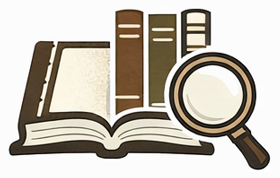
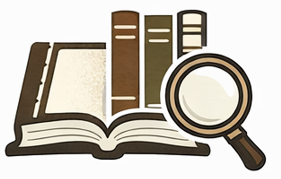
feat: 메인페이지 2차

Changed region(s): [[0.0, 0.0281, 0.9714, 0.9551], [0.3143, 0.8427, 0.3714, 0.8989]]

diff --git a/frontend/src/views/HomeView.vue b/frontend/src/views/HomeView.vue
@@ -9,7 +9,7 @@
         <div class="search-bar">
           <input type="text" placeholder="찾으시는 서책의 이름을 입력하십시오..." class="search-input">
           <button class="search-button">
-            <img src="@/assets/search-icon.png" alt="검색" class="search-icon-img" />
+            <img src="@/assets/search-button.jpg" alt="검색" class="search-button-img" />
           </button>
         </div>
       </div>
@@ -22,9 +22,89 @@
         <span class="decoration-line"></span>
       </div>
       <p class="section-desc">사용자의 취향에 맞춰 선별한 서적들입니다.</p>
-      </section>
+
+      <div v-if="isLoggedIn" class="recommend-content">
+        <div v-if="recommendations.length > 0" class="book-grid">
+          <div v-for="rec in recommendations" :key="rec.id" class="book-card">
+            <div class="book-cover-wrapper">
+              <img :src="rec.book.cover_url" alt="서책 표지" class="book-cover">
+            </div>
+            <div class="book-info">
+              <h4 class="book-title">{{ rec.book.title }}</h4>
+              <p class="book-author">{{ rec.book.author }}</p>
+              <p class="ai-reason">" {{ rec.reason }} "</p>
+            </div>
+          </div>
+        </div>
+        <div v-else class="loading-state">추천 서책을 선별 중입니다...</div>
+      </div>
+
+      <div v-else class="login-prompt-card">
+        <p class="prompt-text">로그인하시면 AI가 분석한 <br> 당신만을 위한 추천 서책을 만나보실 수 있습니다.</p>
+        <div class="prompt-btns">
+          <router-link to="/login" class="btn-login">로그인</router-link>
+          <router-link to="/signup" class="btn-signup">회원가입</router-link>
+        </div>
+      </div>
+    </section>
   </div>
 </template>
+
+<script setup>
+import { ref, onMounted, onUnmounted, watch } from 'vue'
+import { useRoute } from 'vue-router'
+import axios from 'axios'
+
+const route = useRoute()
+const recommendations = ref([])
+const isLoggedIn = ref(false)
+
+const checkStatusAndFetch = () => {
+  const token = localStorage.getItem('access_token')
+  isLoggedIn.value = !!token
+  
+  if (isLoggedIn.value) {
+    getRecommendations(token)
+  } else {
+    recommendations.value = [] 
+  }
+}
+
+const getRecommendations = function (token) {
+  axios({
+    method: 'get',
+    url: 'http://127.0.0.1:8000/api/v1/books/recommendations/',
+    headers: { Authorization: `Bearer ${token}` }
+  })
+    .then(res => { recommendations.value = res.data })
+    .catch(err => { 
+      if (err.response?.status === 401) {
+        isLoggedIn.value = false
+        recommendations.value = []
+      }
+    })
+}
+
+const handleAuthChange = () => {
+  checkStatusAndFetch()
+}
+
+onMounted(() => {
+  checkStatusAndFetch()
+  
+  window.addEventListener('auth-change', handleAuthChange)
+  window.addEventListener('storage', handleAuthChange)
+})
+
+onUnmounted(() => {
+  window.removeEventListener('auth-change', handleAuthChange)
+  window.removeEventListener('storage', handleAuthChange)
+})
+
+watch(() => route.path, () => {
+  checkStatusAndFetch()
+})
+</script>
 
 <style scoped>
 /* 구글에서 폰트 불러오기 */
@@ -43,7 +123,7 @@
   background-color: #4a3423; 
   background-image: url('https://www.toptal.com/designers/subtlepatterns/uploads/paper.png'); 
   background-blend-mode: overlay;
-  height: 450px;
+  height: 350px;
   display: flex;
   align-items: center;
   justify-content: center;
@@ -80,7 +160,8 @@
   background-color: rgba(255, 255, 255, 0.95);
   border: 2px solid #81532e;
   border-radius: 4px;
-  width: 500px;
+  width: 650px;       
+  height: 60px;     
   margin: 0 auto;
   overflow: hidden;
   box-shadow: 5px 5px 15px rgba(0,0,0,0.2);
@@ -97,7 +178,7 @@
 }
 
 .search-button {
-  background-color: #81532e;
+  background-color: #ffffff;
   border: none;
   padding: 0 25px;
   cursor: pointer;
@@ -107,17 +188,18 @@
 }
 
 .search-button:hover {
-  background-color: #5d3b21;
+  background-color: #ffffff;
 }
 
-.search-icon-img {
-  width: 20px;
-  filter: brightness(0) invert(1);
+.search-button-img {
+  width: 24px;
+  height: 24px;
+  object-fit: fill;
 }
 
 .recommend-section {
   max-width: 1200px;
-  margin: 60px auto;
+  margin: 10px auto;
   padding: 0 20px;
   text-align: center;
 }
@@ -127,7 +209,7 @@
   align-items: center;
   justify-content: center;
   gap: 20px;
-  margin-bottom: 10px;
+  margin-bottom: 4px;
 }
 
 .decoration-line {
@@ -137,20 +219,165 @@
 }
 
 .section-title {
-  font-size: 28px;
+  font-size: 34px;
   color: #4a3423;
   font-weight: 700;
 }
 
 .section-desc {
-  color: #888;
-  font-size: 16px;
+  color: #967979;
+  font-size: 26px;
+  margin-top: 0;
+  margin-bottom: 30px;
 }
 
 .search-input::placeholder {
   font-family: 'Nanum Myeongjo', serif;
-  letter-spacing: -0.5px; /* 글자를 살짝 모아서 정갈하게 */
-  font-size: 15px;
+  letter-spacing: -0.5px;
+  font-size: 18px;
   font-weight: 700;
 }
+
+.recommend-content {
+  margin-top: 40px;
+}
+
+.book-grid {
+  display: flex;            /* Grid 대신 Flex 사용 */
+  gap: 30px;
+  max-width: 1100px;        /* 전체 섹션 너비에 맞춰 조절 */
+  margin: 0 auto;
+  padding: 20px 10px;       /* 그림자가 잘리지 않게 여백 추가 */
+  
+  /* 가로 스크롤 핵심 설정 */
+  overflow-x: auto;         /* 가로 내용이 넘치면 자동 스크롤 생성 */
+  white-space: nowrap;      /* 내부 요소들이 줄바꿈되지 않게 설정 */
+  -webkit-overflow-scrolling: touch; /* 모바일에서 부드러운 스크롤 */
+  
+  /* 스크롤바 디자인 (선택 사항: 깔끔하게 숨기거나 얇게 만들기) */
+  scrollbar-width: thin; 
+  scrollbar-color: #d1b894 transparent;
+}
+
+/* 스크롤바 커스텀 (Chrome, Safari) */
+.book-grid::-webkit-scrollbar {
+  height: 6px;              /* 가로 스크롤바 높이 */
+}
+.book-grid::-webkit-scrollbar-thumb {
+  background-color: #d1b894; /* 스크롤바 색상 */
+  border-radius: 10px;
+}
+.book-grid::-webkit-scrollbar-track {
+  background: transparent;
+}
+
+.book-card {
+  flex: 0 0 220px;          /* ★핵심: 카드가 줄어들지 않고 220px 너비를 유지함 */
+  background: white;
+  padding: 15px;
+  border: 1px solid #eee;
+  box-shadow: 0 4px 10px rgba(0,0,0,0.05);
+  transition: transform 0.3s;
+  display: inline-block;    /* 가로 나열 유지 */
+  vertical-align: top;
+}
+
+/* 텍스트가 너무 길어지면 말줄임표(...) 처리 (가로 스크롤 시 필수) */
+.book-title {
+  font-size: 16px;
+  color: #4a3423;
+  margin: 5px 0;
+  font-weight: 700;
+  overflow: hidden;
+  text-overflow: ellipsis;
+  white-space: nowrap;
+}
+
+.book-card:hover {
+  transform: translateY(-10px);
+}
+
+.book-cover-wrapper {
+  width: 100%;
+  aspect-ratio: 2/3;
+  background-color: #f0f0f0;
+  margin-bottom: 15px;
+  overflow: hidden;
+  box-shadow: 2px 2px 5px rgba(0,0,0,0.1);
+}
+
+.book-cover {
+  width: 100%;
+  height: 100%;
+  object-fit: cover;
+}
+
+.book-title {
+  font-size: 16px;
+  color: #4a3423;
+  margin: 5px 0;
+  font-weight: 700;
+}
+
+.book-author {
+  font-size: 14px;
+  color: #888;
+  margin-bottom: 10px;
+}
+
+.ai-reason {
+  font-family: 'Hahmlet', serif;
+  font-size: 12px;
+  color: #81532e;
+  background: #fdfaf5;
+  padding: 8px;
+  border-radius: 4px;
+  /* 추천 사유가 길어도 한 줄 혹은 일정 높이를 유지하게 설정 */
+  white-space: normal;      /* 사유는 여러 줄로 보일 수 있게 함 */
+  display: -webkit-box;
+  -webkit-box-orient: vertical;
+  overflow: hidden;
+}
+
+/* 비로그인 유도 카드 스타일 */
+.login-prompt-card {
+  background: #fff;
+  border: 1px solid #d1b894;
+  padding: 40px;
+  margin-top: 30px;
+  border-radius: 8px;
+}
+
+.prompt-text {
+  font-size: 18px;
+  color: #4a3423;
+  margin-bottom: 25px;
+  line-height: 1.6;
+}
+
+.prompt-btns {
+  display: flex;
+  justify-content: center;
+  gap: 15px;
+}
+
+.btn-login, .btn-signup {
+  padding: 10px 25px;
+  border-radius: 4px;
+  text-decoration: none;
+  font-weight: 700;
+  transition: 0.3s;
+}
+
+.btn-login {
+  background-color: #81532e;
+  color: white;
+}
+
+.btn-signup {
+  border: 1px solid #81532e;
+  color: #81532e;
+}
+
+.btn-login:hover { background-color: #5d3b21; }
 </style>

diff --git a/frontend/src/components/TheNavbar.vue b/frontend/src/components/TheNavbar.vue
@@ -65,6 +65,8 @@ export default {
       localStorage.removeItem('refresh_token');
       localStorage.removeItem('user_nickname');
       this.isLoggedIn = false;
+      this.userNickname = '';
+      window.dispatchEvent(new CustomEvent('auth-change'));
       alert("로그아웃 되었습니다.");
       this.$router.push('/');
     },
